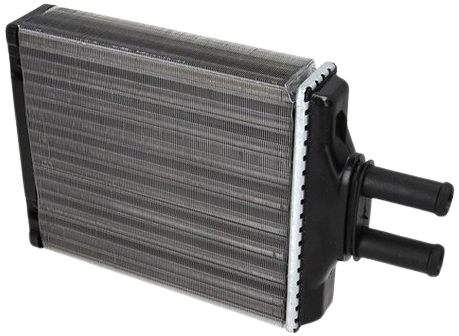
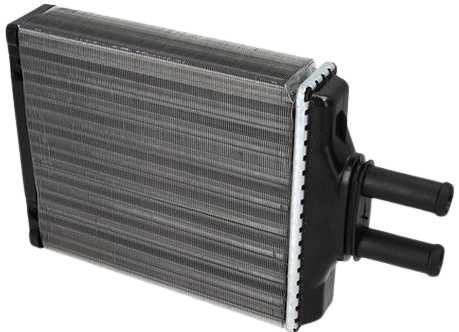
Correcciones de informacion

diff --git a/index.html b/index.html
@@ -183,34 +183,33 @@
     </section>
 
     <!-- ══ SERVICIOS ═══════════════════════════════════════ -->
-    <!-- Para agregar un servicio: copiar un <article class="service-card"> -->
     <div class="services-wrap" id="servicios">
         <section>
             <div class="section-header fade-in">
                 <span class="section-tag">Lo que hacemos</span>
                 <h2 class="section-title">Nuestros <span class="accent">Servicios</span></h2>
-                <p class="section-copy">Reparación de radiadores, diagnóstico de aire acondicionado y mantenimiento de calefacción para autos, camionetas y camiones en Córdoba capital. Atención rápida y de confianza con repuestos originales y alternativas de calidad.</p>
+                <p class="section-copy">Reparación, diagnóstico y mantenimiento especializado para autos, camionetas y camiones en Córdoba Capital. Trabajamos con atención rápida, soluciones confiables y repuestos de calidad para que tu vehículo vuelva a funcionar al máximo.</p>
             </div>
             <div class="services-grid">
                 <article class="service-card fade-in">
                     <span class="service-icon">🌡️</span>
                     <h3>Radiadores</h3>
-                    <p>Reparación, limpieza y venta de radiadores para autos, camionetas y camiones.</p>
+                    <p>Reparación, limpieza y venta de radiadores. Soluciones rápidas y eficientes para mantener el sistema de refrigeración en óptimas condiciones.</p>
                 </article>
                 <article class="service-card fade-in" style="transition-delay:.1s">
                     <span class="service-icon">❄️</span>
                     <h3>Aire Acondicionado</h3>
-                    <p>Carga de gas, diagnóstico de fugas y cambio de compresores para A/C automotor.</p>
+                    <p>Carga de gas, detección de fugas y diagnóstico de fallas electrónicas en sistemas de aire acondicionado automotor. También realizamos venta y reparación de compresores.</p>
                 </article>
                 <article class="service-card fade-in" style="transition-delay:.2s">
                     <span class="service-icon">🔥</span>
                     <h3>Calefacción</h3>
-                    <p>Reparación integral del circuito térmico y paneles de calefacción automotor.</p>
+                    <p>Detección y reparación de sistemas de calefacción automotor. Cambio de radiadores de calefacción y reparación de cajas evaporadoras.</p>
                 </article>
                 <article class="service-card fade-in" style="transition-delay:.3s">
                     <span class="service-icon">🚛</span>
-                    <h3>Línea Pesada</h3>
-                    <p>Servicio especializado para camiones, intercoolers y maquinaria pesada.</p>
+                    <h3>Atención rápida</h3>
+                    <p>Atención personalizada para que vuelvas a la ruta lo antes posible. Trabajamos con experiencia, compromiso y repuestos originales o alternativas de calidad.</p>
                 </article>
             </div>
         </section>
@@ -220,80 +219,136 @@
     <div class="services-wrap" id="productos">
         <section>
             <div class="section-header fade-in">
-                <span class="section-tag">Productos</span>
-                <h2 class="section-title">Repuestos y <span class="accent">Componentes</span></h2>
-                <p class="section-copy">Consultá disponibilidad de piezas para radiadores, calefacción y aire acondicionado en Córdoba. Sin precios ni stock, ofrecemos referencias generales para distintos vehículos y marcas.</p>
+                <span class="section-tag">Productos y Servicios</span>
+                <h2 class="section-title">Refrigeración y <span class="accent">Calefacción Automotor</span></h2>
+                <p class="section-copy">
+                    Soluciones integrales en radiadores, calefacción, aire acondicionado y repuestos para automotores nacionales e importados.
+                </p>
             </div>
+
             <div class="services-grid">
+
                 <article class="service-card fade-in">
                     <img src="recursos/radiadoragua.png" alt="Radiadores de agua" class="product-img">
                     <h3>Radiadores de agua</h3>
-                    <p>Radiadores de agua para Kango 1.6, Corsa Classic, Spirit, Clio y Megane. Ideal para mantención térmica y recambios confiables.</p>
-                    <a href="https://wa.me/543516687385?text=Hola%21%20Queria%20consultar%20disponibilidad%20de%20los%20Radiadores%20de%20agua" class="btn-primary" target="_blank" rel="noopener">Consultar disponibilidad</a>
+                    <p>
+                        Radiadores nuevos nacionales e importados, cambio de panel, radiadores especiales y servicio técnico de instalación.
+                    </p>
+                    <a href="https://wa.me/543516687385?text=Hola%21%20Queria%20consultar%20por%20Radiadores%20de%20GNC"
+                        class="btn-primary" target="_blank" rel="noopener">
+                        Consultar ahora
+                    </a>
                 </article>
+
                 <article class="service-card fade-in" style="transition-delay:.1s">
                     <img src="recursos/radiadorcalefaccion.png" alt="Radiadores de calefacción" class="product-img">
                     <h3>Radiadores de calefacción</h3>
-                    <p>Unidades de calefacción compatibles con Gol, Trend, Senda, Palio y vehículos familiares de uso urbano.</p>
-                    <a href="https://wa.me/543516687385?text=Hola%21%20Queria%20consultar%20disponibilidad%20de%20los%20Radiadores%20de%20calefaccion" class="btn-primary" target="_blank" rel="noopener">Consultar disponibilidad</a>
+                    <p>
+                        Radiadores nacionales e importados, calefones de 12V y 24V. Venta, instalación y servicio técnico especializado.
+                    </p>
+                    <a href="https://wa.me/543516687385?text=Hola%21%20Queria%20consultar%20por%20Radiadores%20de%20calefaccion"
+                        class="btn-primary" target="_blank" rel="noopener">
+                        Consultar ahora
+                    </a>
                 </article>
+
                 <article class="service-card fade-in" style="transition-delay:.2s">
                     <img src="recursos/condensador.png" alt="Condensadores" class="product-img">
                     <h3>Condensadores</h3>
-                    <p>Condensadores para sistemas de A/C de Chevrolet, Fiat, Volkswagen y Toyota, con asesoramiento en instalación.</p>
-                    <a href="https://wa.me/543516687385?text=Hola%21%20Queria%20consultar%20disponibilidad%20de%20los%20Condensadores" class="btn-primary" target="_blank" rel="noopener">Consultar disponibilidad</a>
+                    <p>
+                        Condensadores universales y repuestos originales para distintos sistemas de aire acondicionado automotor.
+                    </p>
+                    <a href="https://wa.me/543516687385?text=Hola%21%20Queria%20consultar%20por%20Condensadores"
+                        class="btn-primary" target="_blank" rel="noopener">
+                        Consultar ahora
+                    </a>
                 </article>
+
                 <article class="service-card fade-in" style="transition-delay:.3s">
-                    <img src="recursos/compresores.png" alt="Compresores de aire" class="product-img">
-                    <h3>Compresores de aire</h3>
-                    <p>Compresores para aire acondicionado automotor en Corsa, Palio, Kangoo, EcoSport y otros modelos populares.</p>
-                    <a href="https://wa.me/543516687385?text=Hola%21%20Queria%20consultar%20disponibilidad%20de%20los%20Compresores" class="btn-primary" target="_blank" rel="noopener">Consultar disponibilidad</a>
+                    <img src="recursos/compresores.png" alt="Compresores" class="product-img">
+                    <h3>Compresores</h3>
+                    <p>
+                        Compresores nuevos y reacondicionados, equipos de frío eléctricos, embragues, bobinas, poleas y mangueras.
+                    </p>
+                    <a href="https://wa.me/543516687385?text=Hola%21%20Queria%20consultar%20por%20Compresores"
+                        class="btn-primary" target="_blank" rel="noopener">
+                        Consultar ahora
+                    </a>
                 </article>
+
                 <article class="service-card fade-in" style="transition-delay:.4s">
-                    <img src="recursos/electroventilador.png" alt="Electroventiladores" class="product-img">
-                    <h3>Electroventiladores</h3>
-                    <p>Electroventiladores y kits eléctricos para autos y camionetas, compatibles con Peugeot, Ford, Mercedes y más.</p>
-                    <a href="https://wa.me/543516687385?text=Hola%21%20Queria%20consultar%20disponibilidad%20de%20los%20Electroventiladores" class="btn-primary" target="_blank" rel="noopener">Consultar disponibilidad</a>
-                </article>
-                <article class="service-card fade-in" style="transition-delay:.5s">
                     <img src="recursos/evaporador.png" alt="Evaporadores" class="product-img">
                     <h3>Evaporadores</h3>
-                    <p>Evaporadores para sistemas de aire acondicionado automotor, compatibles con diversos modelos de autos y camionetas.</p>
-                    <a href="https://wa.me/543516687385?text=Hola%21%20Queria%20consultar%20disponibilidad%20de%20los%20Evaporadores" class="btn-primary" target="_blank" rel="noopener">Consultar disponibilidad</a>
+                    <p>
+                        Evaporadores originales y alternativos, nuevos y usados para múltiples modelos de vehículos.
+                    </p>
+                    <a href="https://wa.me/543516687385?text=Hola%21%20Queria%20consultar%20por%20Evaporadores"
+                        class="btn-primary" target="_blank" rel="noopener">
+                        Consultar ahora
+                    </a>
                 </article>
-                <article class="service-card fade-in" style="transition-delay:.6s">
+
+                <article class="service-card fade-in" style="transition-delay:.5s">
                     <img src="recursos/logo.png" alt="Refrigerantes" class="product-img">
                     <h3>Refrigerantes</h3>
-                    <p>Refrigerantes y gases para carga de sistemas de aire acondicionado, con opciones ecológicas y tradicionales.</p>
-                    <a href="https://wa.me/543516687385?text=Hola%21%20Queria%20consultar%20disponibilidad%20de%20los%20Refrigerantes" class="btn-primary" target="_blank" rel="noopener">Consultar disponibilidad</a>
+                    <p>
+                        Refrigerantes y limpieza de circuitos para garantizar el correcto funcionamiento del sistema de refrigeración.
+                    </p>
+                    <a href="https://wa.me/543516687385?text=Hola%21%20Queria%20consultar%20por%20Refrigerantes"
+                        class="btn-primary" target="_blank" rel="noopener">
+                        Consultar ahora
+                    </a>
                 </article>
+
             </div>
         </section>
     </div>
 
     <!-- ══ NOSOTROS ════════════════════════════════════════ -->
-    <!-- Foto: reemplazar recursos/taller.jpg -->
     <section id="nosotros">
         <div class="about-grid">
+
             <div class="about-img-block fade-in">
                 <img src="recursos/taller.jpg" alt="Trabajando en Taller Campanella" />
+
                 <div class="about-badge">
                     <span class="big">+40</span>
                     <span class="small">Años de Trayectoria</span>
                 </div>
             </div>
+
             <div class="about-content fade-in" style="transition-delay:.15s">
+
                 <span class="section-tag">Nuestra Historia</span>
-                <h2 class="section-title" style="margin-bottom:28px">Pasión por la <span class="accent">Mecánica</span></h2>
-                <p>Somos un taller familiar especializado en el sistema térmico del automotor. Nos destacamos por brindar un <strong>diagnóstico preciso y honesto</strong>, tratando cada vehículo como si fuera nuestro.</p>
+
+                <h2 class="section-title" style="margin-bottom:28px">
+                    Pasión por la <span class="accent">Refrigeración Automotor</span>
+                </h2>
+
+                <p>
+                    Somos un taller familiar con más de 40 años de trayectoria,
+                    especializado en refrigeración del automotor.
+                    Esta empresa está atendida por sus dueños y nos destacamos por brindar
+                    un <strong>diagnóstico preciso y honesto</strong> para ofrecer la mejor solución
+                    a cada problema detectado.
+                </p>
+
                 <ul class="about-features">
-                    <li>Especialistas en Radiadores e Intercoolers.</li>
-                    <li>Carga y reparación de Aire Acondicionado.</li>
-                    <li>Limpieza de circuitos de calefacción sin desarmar tablero.</li>
+                    <li>Especialistas en radiadores e intercoolers.</li>
+                    <li>Reparación y mantenimiento de aire acondicionado.</li>
+                    <li>Mantenimiento de calefacción automotor.</li>
+                    <li>Limpieza de circuitos de refrigeración.</li>
                 </ul>
-                <a href="https://wa.me/543516687385" class="btn-primary" target="_blank" rel="noopener" style="margin-top:8px">
+
+                <a href="https://wa.me/543516687385"
+                    class="btn-primary"
+                    target="_blank"
+                    rel="noopener"
+                    style="margin-top:8px">
+
                     Consultar ahora →
                 </a>
+
             </div>
         </div>
     </section>
@@ -302,22 +357,48 @@
     <section id="faq" class="faq-wrap">
         <div class="section-header fade-in">
             <span class="section-tag">Preguntas frecuentes</span>
-            <h2 class="section-title">Consultas comunes sobre radiadores y aire acondicionado en Córdoba</h2>
-            <p class="section-copy">Resolvemos dudas frecuentes para que tus clientes encuentren rápido tu taller de radiadores en Córdoba y entiendan el servicio que ofrecemos.</p>
+
+            <h2 class="section-title">
+                Consultas frecuentes sobre refrigeración automotor
+            </h2>
+
+            <p class="section-copy">
+                Respondemos algunas de las dudas más comunes sobre radiadores,
+                calefacción y aire acondicionado automotor en Córdoba.
+            </p>
         </div>
+
         <div class="faq-grid">
+
             <article class="faq-item fade-in">
-                <h3>¿Reparan radiadores de autos y camiones?</h3>
-                <p>Sí. Tenemos experiencia en radiadores para autos, camionetas y línea pesada como camiones e intercoolers. Revisamos fisuras, fugas y pérdidas de presión.</p>
+                <h3>¿Reparan radiadores y sistemas de calefacción?</h3>
+
+                <p>
+                    Sí. Trabajamos con radiadores, calefacción automotor,
+                    intercoolers y sistemas de refrigeración para autos,
+                    camionetas y utilitarios.
+                </p>
             </article>
+
             <article class="faq-item fade-in" style="transition-delay:.1s">
-                <h3>¿Hacen carga de gas y reparación de aire acondicionado?</h3>
-                <p>Ofrecemos carga de gas, detección de fugas y cambio de compresores para aire acondicionado automotor en Córdoba.</p>
+                <h3>¿Hacen reparación y carga de aire acondicionado?</h3>
+
+                <p>
+                    Realizamos diagnóstico, detección de fugas, carga de gas,
+                    reparación de compresores y mantenimiento completo de aire acondicionado automotor.
+                </p>
             </article>
+
             <article class="faq-item fade-in" style="transition-delay:.2s">
-                <h3>¿Dónde están ubicados en Córdoba?</h3>
-                <p>Estamos en Av. Arturo Capdevilla 1634, Córdoba Capital. Atendemos con turno previo por WhatsApp o teléfono.</p>
+                <h3>¿Trabajan con repuestos nuevos y reacondicionados?</h3>
+
+                <p>
+                    Sí. Contamos con repuestos nuevos, originales,
+                    alternativos y reacondicionados según la necesidad
+                    de cada vehículo y presupuesto.
+                </p>
             </article>
+
         </div>
     </section>
 